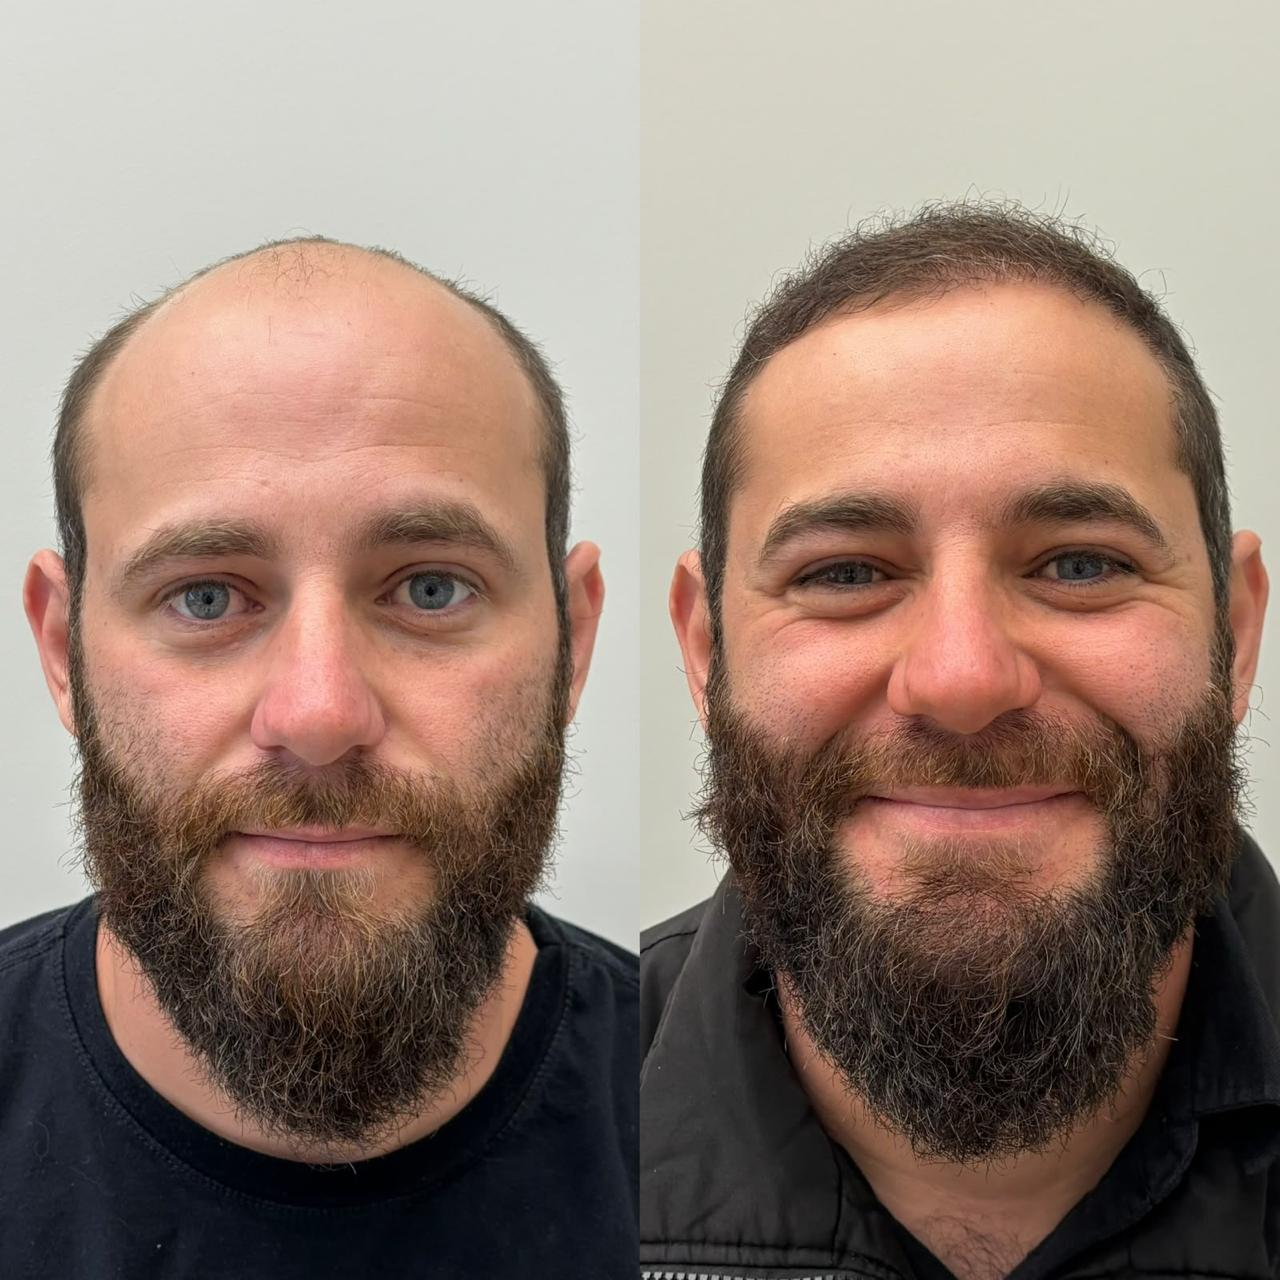
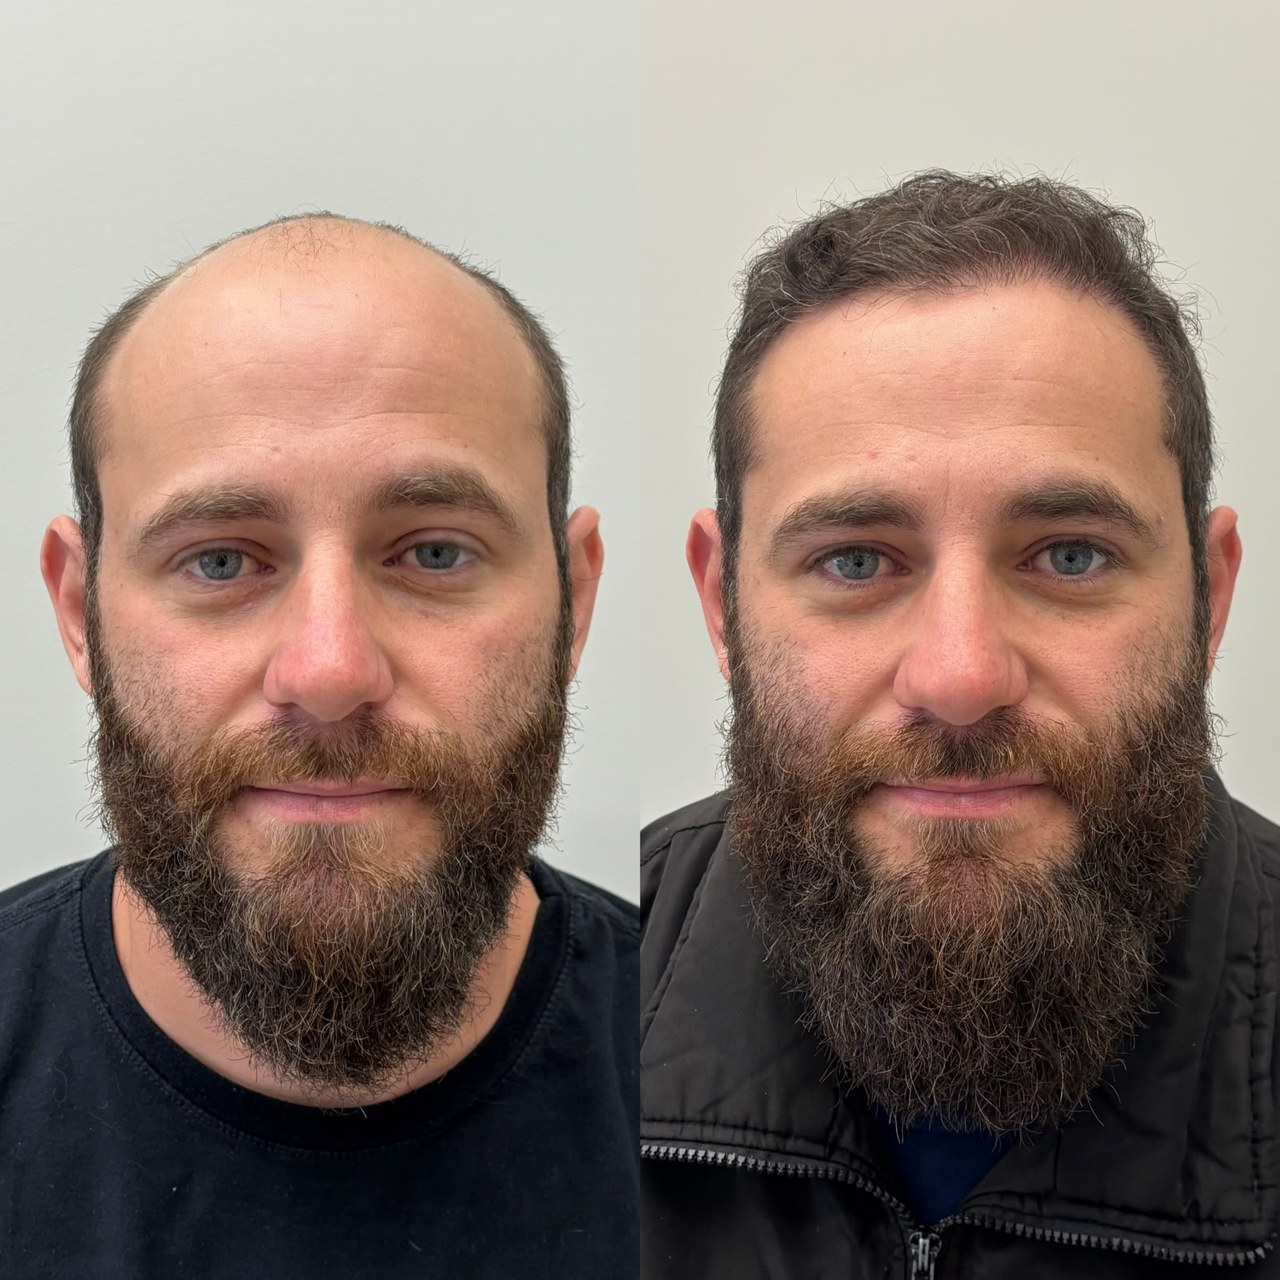
Aplica correções da clínica e troca foto de um caso
Prazo corrigido conforme informação da Carol: o crescimento começa
entre o terceiro e o quarto mês e o resultado final leva de 12 a 18
meses. O site dizia 10 a 12, o que era otimista e geraria frustração
no acompanhamento.

Substitui o caso-03 pela foto enviada pela clínica (mesmo paciente,
enquadramento melhor), com os 8 meses informados. Passa a ser o
primeiro da galeria por ser o resultado mais evidente.

Título da galeria deixa de dizer "um ano depois", que conflitava com
o card de 8 meses.

Incorpora na etapa 1 os critérios de avaliação que a clínica
descreveu (grau de perda, característica dos fios, área doadora) e
na etapa 2 a orientação de pós-procedimento, escritos na voz da
página em vez do texto institucional original.

diff --git a/index.html b/index.html
@@ -327,10 +327,10 @@ footer{background:var(--ink-2);border-top:1px solid var(--line);padding:52px 0 1
   <div class="wrap">
     <div class="sec-head">
       <div class="eyebrow">Resultados de quem já fez</div>
-      <h2>Homens como você, um ano depois.</h2>
+      <h2>Homens como você, depois do procedimento.</h2>
       <p>Sem filtro, sem ângulo favorável, sem maquiagem de resultado. Mesma luz e mesma
-         posição nas duas fotos: a primeira no dia da avaliação, a segunda depois que o
-         cabelo terminou de nascer.</p>
+         posição nas duas fotos: a primeira no dia da avaliação, a segunda no tempo indicado
+         em cada caso.</p>
     </div>
 
     <div class="gallery" id="gallery"></div>
@@ -363,9 +363,10 @@ footer{background:var(--ink-2);border-top:1px solid var(--line);padding:52px 0 1
         <div class="step-n">01</div>
         <div>
           <h3>Avaliação e desenho</h3>
-          <p>A médica examina sua nuca para ver quantos folículos dá para usar e desenha a
-             nova linha no seu rosto, na frente do espelho. Você sai sabendo quantos folículos
-             o seu caso pede, quanto custa e em quanto tempo fica pronto.</p>
+          <p>A médica olha o grau da sua perda, a espessura dos seus fios e quanto a sua nuca
+             tem para doar. Com isso ela desenha a nova linha no seu rosto, respeitando o
+             formato dele e a direção em que o seu cabelo cresce. Você sai sabendo quantos
+             folículos o seu caso pede, quanto custa e em quanto tempo fica pronto.</p>
         </div>
       </div>
       <div class="step">
@@ -374,16 +375,17 @@ footer{background:var(--ink-2);border-top:1px solid var(--line);padding:52px 0 1
           <h3>Procedimento em um dia</h3>
           <p>Anestesia local, sem corte e sem ponto. Você passa o dia acordado, conversando
              e mexendo no celular, e dorme na sua casa. Sem viagem, sem hotel, sem passagem:
-             é aqui em Cascavel, e no dia seguinte já dá para trabalhar.</p>
+             é aqui em Cascavel. Você sai com as orientações do pós escritas, e a equipe
+             acompanha cada etapa da recuperação.</p>
         </div>
       </div>
       <div class="step">
         <div class="step-n">03</div>
         <div>
           <h3>Crescimento</h3>
-          <p>Por volta do terceiro mês você começa a ver os fios novos. No sexto já dá para
-             notar na foto. O resultado inteiro aparece entre 10 e 12 meses, e a clínica
-             acompanha você em todo esse caminho.</p>
+          <p>Entre o terceiro e o quarto mês você começa a ver os fios novos. Lá pelo sexto
+             já dá para notar na foto. O resultado inteiro leva de 12 a 18 meses, e a clínica
+             acompanha você nesse caminho todo.</p>
         </div>
       </div>
     </div>
@@ -450,7 +452,8 @@ footer{background:var(--ink-2);border-top:1px solid var(--line);padding:52px 0 1
         <summary>Em quanto tempo eu vejo resultado?</summary>
         <div class="faq-a">Entre a segunda e a sexta semana os fios transplantados caem. Isso
           assusta quem não foi avisado, mas é parte do processo: o folículo ficou e vai produzir
-          de novo. O cabelo começa a nascer no terceiro mês e fica completo entre 10 e 12.</div>
+          de novo. O cabelo novo começa a nascer entre o terceiro e o quarto mês, e o resultado
+          final leva de 12 a 18 meses para aparecer por completo.</div>
       </details>
       <details>
         <summary>Daqui a uns anos vai cair de novo?</summary>
@@ -577,13 +580,15 @@ footer{background:var(--ink-2);border-top:1px solid var(--line);padding:52px 0 1
   });
 
   /* ───── Galeria de casos ───── */
+  // ATENÇÃO: só o caso-03 tem tempo confirmado pela clínica (8 meses).
+  // Os demais são estimativas e precisam ser conferidos com a Carol antes de publicar.
   var casos = [
-    {img:'assets/resultados/caso-01.jpg', area:'Entradas e topo',    tempo:'12 meses'},
-    {img:'assets/resultados/caso-06.jpg', area:'Densidade no topo',  tempo:'12 meses'},
-    {img:'assets/resultados/caso-03.jpg', area:'Linha frontal',      tempo:'12 meses'},
-    {img:'assets/resultados/caso-04.jpg', area:'Coroa',              tempo:'10 meses'},
-    {img:'assets/resultados/caso-05.jpg', area:'Entradas',           tempo:'12 meses'},
-    {img:'assets/resultados/caso-02.jpg', area:'Coroa e topo',       tempo:'10 meses'}
+    {img:'assets/resultados/caso-03.jpg', area:'Topo e linha frontal', tempo:'8 meses'},
+    {img:'assets/resultados/caso-01.jpg', area:'Entradas e topo',      tempo:'12 meses'},
+    {img:'assets/resultados/caso-06.jpg', area:'Densidade no topo',    tempo:'12 meses'},
+    {img:'assets/resultados/caso-04.jpg', area:'Coroa',                tempo:'12 meses'},
+    {img:'assets/resultados/caso-05.jpg', area:'Entradas',             tempo:'12 meses'},
+    {img:'assets/resultados/caso-02.jpg', area:'Coroa e topo',         tempo:'12 meses'}
   ];
   var g = document.getElementById('gallery');
   if(g){
